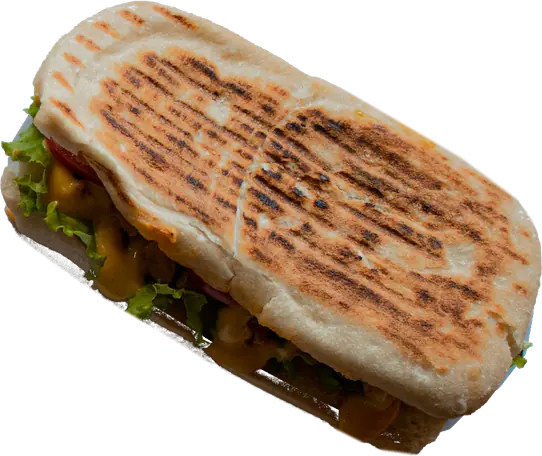
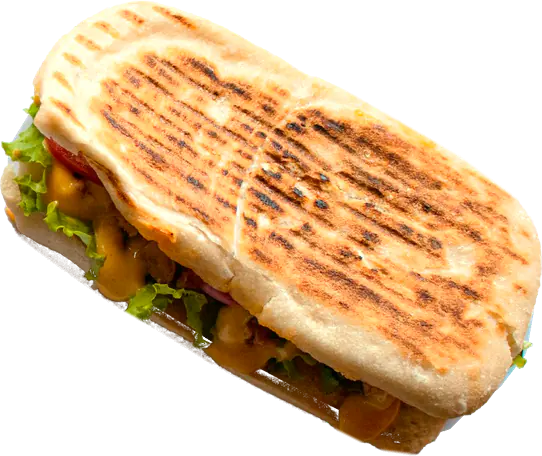
fix(brand): write casamoner as the wordmark everywhere, brighten the sandwich
- Logo back to the real wordmark: serif "casa", sans "moner".
- New Branded helper writes every visible "casamoner" (titles, eyebrows,
  body copy, footer, store pages) with the wordmark at the surrounding size.
- Sandwich layer gets warmer, brighter light to match the other pieces.

diff --git a/src/components/scenes/SceneSteps.tsx b/src/components/scenes/SceneSteps.tsx
@@ -1,6 +1,7 @@
 'use client';
 
 import { useImperativeHandle, useRef, type ReactNode, type Ref } from 'react';
+import { Branded } from '@/components/layout/Logo';
 import styles from './SceneSteps.module.css';
 
 export interface SceneStepsHandle {
@@ -10,7 +11,8 @@ export interface SceneStepsHandle {
 interface SceneStepsProps {
   ref?: Ref<SceneStepsHandle>;
   eyebrow: string;
-  title: ReactNode;
+  /** A l'encapçalament, al títol i al text, «casamoner» s'escriu amb el logotip. */
+  title: string;
   text: string;
   /** Passos narratius. Sense passos, el text queda com a missatge principal. */
   steps?: readonly string[];
@@ -39,11 +41,15 @@ export function SceneSteps({ ref, eyebrow, title, text, steps = [], tone = 'ligh
 
   return (
     <div className={styles.copy} data-tone={tone} data-steps={steps.length > 0}>
-      <p className="eyebrow">{eyebrow}</p>
+      <p className="eyebrow">
+        <Branded>{eyebrow}</Branded>
+      </p>
       <Title id={titleId} className={styles.title}>
-        {title}
+        <Branded>{title}</Branded>
       </Title>
-      <p className={styles.text}>{text}</p>
+      <p className={styles.text}>
+        <Branded>{text}</Branded>
+      </p>
       {children}
       {steps.length > 0 && (
         <ol ref={list} className={styles.steps}>

diff --git a/src/components/layout/Logo.tsx b/src/components/layout/Logo.tsx
@@ -1,11 +1,23 @@
+import { Fragment, type ReactNode } from 'react';
 import styles from './Logo.module.css';
 
-/** Marca: «casa» en negreta i «moner» fi, tots dos de pal sec, com el logotip original. */
-export function Logo({ className }: { className?: string }) {
+/** Marca: «casa» amb serif i «moner» amb pal sec, com el logotip original. */
+export function Logo({ className, inline = false }: { className?: string; inline?: boolean }) {
   return (
-    <span className={`${styles.logo} ${className ?? ''}`}>
+    <span className={`${styles.logo} ${inline ? styles.inline : ''} ${className ?? ''}`}>
       <span className={styles.casa}>casa</span>
       <span className={styles.moner}>moner</span>
     </span>
   );
+}
+
+/** Un text on cada «casamoner» s'escriu amb el logotip, a la mida del text que l'envolta. */
+export function Branded({ children }: { children: string }): ReactNode {
+  const parts = children.split('casamoner');
+  return parts.map((part, i) => (
+    <Fragment key={i}>
+      {i > 0 && <Logo inline />}
+      {part}
+    </Fragment>
+  ));
 }

diff --git a/scripts/breakfast-layers.ts b/scripts/breakfast-layers.ts
@@ -95,7 +95,14 @@ async function sandwich() {
     const lit = smoothstep(70, 120, (r + g + b) / 3 + 2 * (Math.max(r, g, b) - Math.min(r, g, b)));
     alpha[i] = (outline[i]! / 255) * Math.max(food * lit, core[i]! > 250 ? 1 : 0);
   }
-  const rgba = withAlpha(data, n, (i) => alpha[i]!);
+  // La foto és fosca i freda (llum de finestra); se li dona la llum càlida i
+  // viva de les altres peces: exposició, una corba que aixeca les ombres i saturació.
+  const lit = (i: number): [number, number, number] => {
+    const c = [data[i * 3]! * 1.04, data[i * 3 + 1]!, data[i * 3 + 2]! * 0.94].map((v) => 255 * Math.pow(Math.min(1, (v / 255) * 1.3), 0.82));
+    const luma = 0.3 * c[0]! + 0.59 * c[1]! + 0.11 * c[2]!;
+    return c.map((v) => Math.max(0, Math.min(255, Math.round(luma + (v - luma) * 1.22)))) as [number, number, number];
+  };
+  const rgba = withAlpha(data, n, (i) => alpha[i]!, lit);
   const box = alphaBox(rgba, width, { x: 0, y: 0, w: width, h: height })!;
   return save(rgba, width, height, box, 'entrepa.webp', 0.6);
 }

diff --git a/src/components/layout/Logo.test.tsx b/src/components/layout/Logo.test.tsx
@@ -1,0 +1,28 @@
+import { render } from '@testing-library/react';
+import { Branded } from './Logo';
+
+describe('Branded', () => {
+  it('writes every «casamoner» as the wordmark and keeps the sentence readable', () => {
+    const { container } = render(
+      <p>
+        <Branded>A casamoner fem pa. Vine a casamoner.</Branded>
+      </p>,
+    );
+    expect(container.textContent).toBe('A casamoner fem pa. Vine a casamoner.');
+    const marks = [...container.querySelectorAll('p > span')];
+    expect(marks).toHaveLength(2);
+    expect(marks.map((m) => [...m.children].map((c) => c.textContent))).toEqual([
+      ['casa', 'moner'],
+      ['casa', 'moner'],
+    ]);
+  });
+
+  it('leaves text without the brand untouched', () => {
+    const { container } = render(
+      <p>
+        <Branded>Pa de massa mare</Branded>
+      </p>,
+    );
+    expect(container.querySelector('span')).toBeNull();
+  });
+});

diff --git a/src/app/botigues/[slug]/page.tsx b/src/app/botigues/[slug]/page.tsx
@@ -1,3 +1,4 @@
+import { Logo } from '@/components/layout/Logo';
 import type { Metadata } from 'next';
 import Image from 'next/image';
 import Link from 'next/link';
@@ -56,7 +57,7 @@ export default async function StorePage({ params }: { params: Params }) {
             <Link href="/">Inici</Link> / <Link href="/botigues">Botigues</Link> / <span aria-current="page">{store.name}</span>
           </nav>
           <h1 className={styles.title}>
-            <span className={styles.brand}>casamoner</span> {store.name}
+            <Logo inline className={styles.brand} /> {store.name}
           </h1>
           {store.subtitle && <p className={styles.subtitle}>{store.subtitle}</p>}
           {store.ametllerOrigen && <p className={styles.tag}>Dins d&apos;Ametller Origen</p>}

diff --git a/src/components/sections/ProductSections.tsx b/src/components/sections/ProductSections.tsx
@@ -1,3 +1,4 @@
+import { Logo } from '@/components/layout/Logo';
 import Image from 'next/image';
 import { breadLabels, cakes, savories, sweets } from '@/data/catalog';
 import { site } from '@/data/site';
@@ -158,7 +159,7 @@ export function CateringSection() {
             Càtering
           </h2>
           <p className="lead">
-            A casamoner oferim un servei de càtering tant per a particulars com per a empreses i celebracions.
+            A <Logo inline /> oferim un servei de càtering tant per a particulars com per a empreses i celebracions.
           </p>
           <div className={styles.cateringActions}>
             <a className="button" href={`mailto:${site.cateringEmail}`}>

diff --git a/src/components/layout/Logo.module.css b/src/components/layout/Logo.module.css
@@ -7,11 +7,26 @@
 }
 
 .casa {
-  font-family: var(--font-sans);
-  font-weight: 600;
+  font-family: var(--font-display);
+  font-weight: 500;
+  font-variation-settings: 'SOFT' 100;
 }
 
 .moner {
   font-family: var(--font-sans);
-  font-weight: 300;
+  font-weight: 400;
+}
+
+/* Dins d'una frase o d'un titular: pren la mida del text i no n'hereta les majúscules. */
+.inline {
+  font-size: 1em;
+  line-height: inherit;
+  text-transform: none;
+  letter-spacing: -0.01em;
+}
+
+/* Als encapçalaments en majúscules petites, la marca (en minúscules) es compensa. */
+:global(.eyebrow) .inline {
+  font-size: 1.5em;
+  font-weight: 400;
 }

diff --git a/src/components/scenes/cafeteria/CafeteriaScene.tsx b/src/components/scenes/cafeteria/CafeteriaScene.tsx
@@ -191,11 +191,7 @@ export function CafeteriaScene() {
           <SceneSteps
             ref={steps}
             eyebrow="Esmorzars a casamoner"
-            title={
-              <>
-                Per tenir un bon dia, vine a <Logo className={styles.brand} />.
-              </>
-            }
+            title="Per tenir un bon dia, vine a casamoner."
             titleId="cafeteria-title"
             titleLevel={2}
             text="Agafa la safata, tria el que et ve de gust i seu. Avui et mereixes començar bé."

diff --git a/src/components/sections/Hero.tsx b/src/components/sections/Hero.tsx
@@ -29,7 +29,7 @@ export function Hero({ storeCount }: { storeCount: number }) {
             </Fragment>
           ))}
           <span className={styles.word} style={{ animationDelay: `${120 + HEADLINE.length * 90}ms` }}>
-            <Logo className={styles.brand} />.
+            <Logo inline className={styles.brand} />.
           </span>
         </h1>
         <p className={styles.lead}>

diff --git a/src/components/layout/Footer.tsx b/src/components/layout/Footer.tsx
@@ -66,7 +66,9 @@ export function Footer() {
         </div>
       </div>
       <div className={`container ${styles.bottom}`}>
-        <p>© casamoner</p>
+        <p>
+          © <Logo inline />
+        </p>
       </div>
     </footer>
   );

diff --git a/src/components/scenes/cafeteria/CafeteriaScene.module.css b/src/components/scenes/cafeteria/CafeteriaScene.module.css
@@ -34,11 +34,6 @@
   filter: drop-shadow(0 1.2vw 1.6vw rgb(60 40 25 / 0.3));
 }
 
-/* La marca dins del títol, amb la mida del títol. */
-.brand {
-  font-size: 1em;
-}
-
 .cta {
   justify-self: start;
   margin-top: 0.4rem;

diff --git a/src/components/sections/Hero.module.css b/src/components/sections/Hero.module.css
@@ -43,8 +43,7 @@
 
 /* La marca dins del titular, amb la mida del titular. */
 .brand {
-  font-size: 1em;
-  letter-spacing: -0.03em;
+  letter-spacing: -0.02em;
 }
 
 .word {
